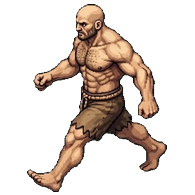
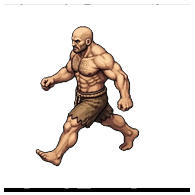
BUILD 395: bare down walk replaced per user direction with the two user-supplied 3/4-view walk/run frames; sim 43,431 passed

diff --git a/index.html b/index.html
@@ -1,1 +1,1 @@
-<!doctype html><html lang="en"><head><!-- BUILD309-VIEWPORT-FIX-MARKER --><meta charset="UTF-8"><meta name="viewport" content="width=device-width, initial-scale=1.0, maximum-scale=1.0, user-scalable=no"><meta name="theme-color" content="#17362e"><link rel="icon" type="image/svg+xml" href="favicon.svg"><meta name="description" content="Explore Mosslight Crossing in the Adventure Game field journal."><title>Adventure Game — Mosslight Crossing</title></head><body><div id="root"></div><script>window.__AG_BUILD="394";(function(){var shown=false;function code(m){var h=0,s=window.__AG_BUILD+"|"+m;for(var i=0;i<s.length;i++){h=(Math.imul(h,31)+s.charCodeAt(i))|0;}return "AG"+window.__AG_BUILD+"-"+(h>>>0).toString(36).toUpperCase().padStart(6,"0").slice(-5);}function show(m,k){if(shown||window.__agBooted)return;shown=true;var d=document.createElement("div");d.id="ag-boot-crash";var p=document.createElement("div");p.className="ag-boot-panel";var t=document.createElement("div");t.className="ag-boot-title";t.textContent="\u26a0 GAME FAILED TO START";var c=document.createElement("div");c.className="ag-boot-code";c.textContent=code(String(m));var g=document.createElement("div");g.className="ag-boot-msg";g.textContent=String(m).slice(0,300);var n=document.createElement("div");n.className="ag-boot-kind";n.textContent=k;var b=document.createElement("button");b.textContent="Reload game";b.onclick=function(){location.reload();};p.appendChild(t);p.appendChild(c);p.appendChild(g);p.appendChild(n);p.appendChild(b);d.appendChild(p);document.body.appendChild(d);}window.addEventListener("error",function(e){if(e.target&&e.target!==window)return;show(e.message||"script error","boot error");},true);window.addEventListener("unhandledrejection",function(e){var r=e.reason;show((r&&(r.message||r))||"rejection","boot rejection");});setTimeout(function(){if(!window.__agBooted)show("The game did not finish loading in time.","load timeout");},20000);})();</script><style>#ag-boot-crash{position:fixed;inset:0;z-index:99999;background:#0d1a16;display:flex;align-items:center;justify-content:center;padding:24px}#ag-boot-crash .ag-boot-panel{max-width:420px;width:100%;background:#14261f;border:1px solid #2c4a3e;border-radius:12px;padding:24px;text-align:center;color:#e8f0e9;font-family:system-ui,sans-serif}#ag-boot-crash .ag-boot-title{font-size:20px;font-weight:800;letter-spacing:.5px}#ag-boot-crash .ag-boot-code{font-family:monospace;font-size:22px;color:#ffd75e;margin:12px 0;letter-spacing:1px}#ag-boot-crash .ag-boot-msg{font-size:13px;color:#b9c9bd;word-break:break-word}#ag-boot-crash .ag-boot-kind{font-size:11px;color:#7d8f83;margin-top:8px;text-transform:uppercase;letter-spacing:1px}#ag-boot-crash button{margin-top:16px;background:#e8a33d;border:0;border-radius:8px;padding:10px 22px;font-size:15px;font-weight:700;color:#231603;cursor:pointer}</style><script type="module" src="/src/main.tsx"></script></body></html>
+<!doctype html><html lang="en"><head><!-- BUILD309-VIEWPORT-FIX-MARKER --><meta charset="UTF-8"><meta name="viewport" content="width=device-width, initial-scale=1.0, maximum-scale=1.0, user-scalable=no"><meta name="theme-color" content="#17362e"><link rel="icon" type="image/svg+xml" href="favicon.svg"><meta name="description" content="Explore Mosslight Crossing in the Adventure Game field journal."><title>Adventure Game — Mosslight Crossing</title></head><body><div id="root"></div><script>window.__AG_BUILD="395";(function(){var shown=false;function code(m){var h=0,s=window.__AG_BUILD+"|"+m;for(var i=0;i<s.length;i++){h=(Math.imul(h,31)+s.charCodeAt(i))|0;}return "AG"+window.__AG_BUILD+"-"+(h>>>0).toString(36).toUpperCase().padStart(6,"0").slice(-5);}function show(m,k){if(shown||window.__agBooted)return;shown=true;var d=document.createElement("div");d.id="ag-boot-crash";var p=document.createElement("div");p.className="ag-boot-panel";var t=document.createElement("div");t.className="ag-boot-title";t.textContent="\u26a0 GAME FAILED TO START";var c=document.createElement("div");c.className="ag-boot-code";c.textContent=code(String(m));var g=document.createElement("div");g.className="ag-boot-msg";g.textContent=String(m).slice(0,300);var n=document.createElement("div");n.className="ag-boot-kind";n.textContent=k;var b=document.createElement("button");b.textContent="Reload game";b.onclick=function(){location.reload();};p.appendChild(t);p.appendChild(c);p.appendChild(g);p.appendChild(n);p.appendChild(b);d.appendChild(p);document.body.appendChild(d);}window.addEventListener("error",function(e){if(e.target&&e.target!==window)return;show(e.message||"script error","boot error");},true);window.addEventListener("unhandledrejection",function(e){var r=e.reason;show((r&&(r.message||r))||"rejection","boot rejection");});setTimeout(function(){if(!window.__agBooted)show("The game did not finish loading in time.","load timeout");},20000);})();</script><style>#ag-boot-crash{position:fixed;inset:0;z-index:99999;background:#0d1a16;display:flex;align-items:center;justify-content:center;padding:24px}#ag-boot-crash .ag-boot-panel{max-width:420px;width:100%;background:#14261f;border:1px solid #2c4a3e;border-radius:12px;padding:24px;text-align:center;color:#e8f0e9;font-family:system-ui,sans-serif}#ag-boot-crash .ag-boot-title{font-size:20px;font-weight:800;letter-spacing:.5px}#ag-boot-crash .ag-boot-code{font-family:monospace;font-size:22px;color:#ffd75e;margin:12px 0;letter-spacing:1px}#ag-boot-crash .ag-boot-msg{font-size:13px;color:#b9c9bd;word-break:break-word}#ag-boot-crash .ag-boot-kind{font-size:11px;color:#7d8f83;margin-top:8px;text-transform:uppercase;letter-spacing:1px}#ag-boot-crash button{margin-top:16px;background:#e8a33d;border:0;border-radius:8px;padding:10px 22px;font-size:15px;font-weight:700;color:#231603;cursor:pointer}</style><script type="module" src="/src/main.tsx"></script></body></html>
